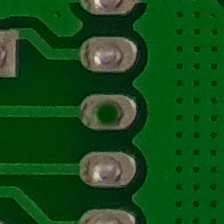
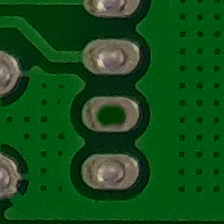
feat(vision): add high-resolution sliding window tiling scanner for full-board uploads

diff --git a/src/api/templates/demo.html b/src/api/templates/demo.html
@@ -986,14 +986,19 @@
                 }
                 const data = await res.json();
                 
-                // Lê arquivo original como Base64 para visualização dual
-                const reader = new FileReader();
-                reader.onload = function(e) {
-                    data.original_image_base64 = e.target.result;
+                // Usa imagem anotada pelo backend com retículo de defeito, ou arquivo original
+                if (!data.original_image_base64) {
+                    const reader = new FileReader();
+                    reader.onload = function(e) {
+                        data.original_image_base64 = e.target.result;
+                        renderInspectionResult(data);
+                        updateTelemetryStats();
+                    };
+                    reader.readAsDataURL(file);
+                } else {
                     renderInspectionResult(data);
                     updateTelemetryStats();
-                };
-                reader.readAsDataURL(file);
+                }
             } catch (err) {
                 alert('Erro ao processar imagem de upload.');
             } finally {
@@ -1054,8 +1059,9 @@
                 banner.classList.add('bg-rose-50', 'border', 'border-rose-300', 'border-l-4', 'border-l-rose-600');
                 title.innerText = 'REPROVADA: ' + formatClassName(data.prediction);
                 title.className = 'text-base font-extrabold text-rose-900 tracking-tight';
-                subtitle.innerText = 'Confiança de ' + (data.confidence * 100).toFixed(1) + '% no diagnóstico de não-conformidade';
-                subtitle.className = 'text-xs text-rose-700 mt-1';
+                const modeMsg = (data.engine && data.engine.includes("tiled")) ? " • Varredura por Mosaico (Tiling Scanner)" : "";
+                subtitle.innerText = "Confiança de " + (data.confidence * 100).toFixed(1) + "% no diagnóstico de não-conformidade" + modeMsg;
+                subtitle.className = "text-xs text-rose-700 mt-1";
             } else {
                 banner.classList.add('bg-emerald-50', 'border', 'border-emerald-300', 'border-l-4', 'border-l-emerald-600');
                 title.innerText = 'APROVADA: CONFORME (PASS)';

diff --git a/src/api/main.py b/src/api/main.py
@@ -21,7 +21,7 @@ import torch
 from fastapi import BackgroundTasks, FastAPI, File, HTTPException, Request, UploadFile, status
 from fastapi.responses import FileResponse, HTMLResponse, StreamingResponse
 from fastapi.staticfiles import StaticFiles
-from PIL import Image
+from PIL import Image, ImageDraw
 
 from src.api.rate_limiter import rate_limiter
 from src.api.schemas import (
@@ -196,6 +196,135 @@ async def demo_interface() -> HTMLResponse:
     return HTMLResponse(content=demo_file.read_text(encoding="utf-8"))
 
 
+def _run_sliding_window_inference(
+    pil_image: Image.Image,
+    app_state: Any,
+) -> dict[str, Any]:
+    """Executa varredura por blocos ópticos (Sliding Window / Tiling) em imagens de alta resolução."""
+    if getattr(app_state, "onnx_session", None) is None:
+        load_model_engine(app_state)
+
+    inference_id = f"inf_{uuid.uuid4().hex[:8]}"
+    ood_result = check_out_of_distribution(pil_image)
+
+    w, h = pil_image.size
+    tile_size = 224
+    # Stride adaptativo para manter acurácia e latência rápida
+    stride = 180 if max(w, h) > 2200 else (140 if max(w, h) > 1000 else 112)
+
+    x_coords = sorted(list(set(list(range(0, w - tile_size, stride)) + [max(0, w - tile_size)])))
+    y_coords = sorted(list(set(list(range(0, h - tile_size, stride)) + [max(0, h - tile_size)])))
+
+    transform = get_inference_transforms(img_size=tile_size)
+    tiles_pil = []
+    tiles_tensors = []
+    coords = []
+
+    for y in y_coords:
+        for x in x_coords:
+            crop = pil_image.crop((x, y, x + tile_size, y + tile_size))
+            tiles_pil.append(crop)
+            tiles_tensors.append(transform(crop))
+            coords.append((x, y))
+
+    batch = torch.stack(tiles_tensors).numpy().astype(np.float32)
+
+    t0 = time.perf_counter()
+    if app_state.onnx_session is not None:
+        outputs = app_state.onnx_session.run(None, {app_state.onnx_input_name: batch})
+        logits = outputs[0]
+    else:
+        with torch.no_grad():
+            logits = app_state.pytorch_model(torch.tensor(batch)).numpy()
+    latency_ms = (time.perf_counter() - t0) * 1000.0
+
+    exp_logits = np.exp(logits - np.max(logits, axis=1, keepdims=True))
+    probs = exp_logits / np.sum(exp_logits, axis=1, keepdims=True)
+
+    defect_candidates = []
+    for i in range(len(tiles_pil)):
+        p = probs[i]
+        cls_idx = int(np.argmax(p))
+        cls_name = CLASS_NAMES[cls_idx]
+        if cls_name != "NORMAL" and p[cls_idx] >= 0.40:
+            defect_candidates.append({
+                "tile_idx": i,
+                "class": cls_name,
+                "confidence": float(p[cls_idx]),
+                "probs": p,
+                "coord": coords[i],
+            })
+
+    if defect_candidates:
+        # Prioriza missing hole se detectado, ou o defeito com maior confiança geral
+        missing_holes = [c for c in defect_candidates if c["class"] == "DEFECT_MISSING_HOLE"]
+        if missing_holes:
+            best = max(missing_holes, key=lambda c: c["confidence"])
+        else:
+            best = max(defect_candidates, key=lambda c: c["confidence"])
+
+        pred_class = best["class"]
+        confidence = best["confidence"]
+        prob_dict = {CLASS_NAMES[k]: round(float(best["probs"][k]), 4) for k in range(len(CLASS_NAMES))}
+        is_defective = True
+        best_idx = best["tile_idx"]
+        winning_tile = tiles_pil[best_idx]
+        winning_coord = best["coord"]
+
+        # 1. Grad-CAM focado no bloco onde o defeito físico reside
+        winning_tensor = tiles_tensors[best_idx].unsqueeze(0)
+        pred_idx = CLASS_NAMES.index(pred_class)
+        try:
+            heatmap = app_state.gradcam.generate_heatmap(winning_tensor, class_idx=pred_idx)
+            overlay_pil = app_state.gradcam.overlay_on_image(winning_tile, heatmap, alpha=0.65, threshold=0.25)
+            gradcam_base64 = GradCAM.pil_to_base64(overlay_pil, format="JPEG")
+        except Exception as exc:
+            logger.warning("Falha ao gerar Grad-CAM no tile", error=str(exc))
+            gradcam_base64 = GradCAM.pil_to_base64(winning_tile, format="JPEG")
+
+        # 2. Imagem macro anotada com mira/retículo vermelho no local do defeito
+        macro_annotated = pil_image.copy()
+        draw = ImageDraw.Draw(macro_annotated)
+        bx, by = winning_coord
+        draw.rectangle([bx, by, bx + tile_size, by + tile_size], outline="red", width=8)
+        original_base64 = GradCAM.pil_to_base64(macro_annotated, format="JPEG")
+
+    else:
+        pred_class = "NORMAL"
+        mean_probs = np.mean(probs, axis=0)
+        confidence = float(mean_probs[0])
+        prob_dict = {CLASS_NAMES[k]: round(float(mean_probs[k]), 4) for k in range(len(CLASS_NAMES))}
+        is_defective = False
+        original_base64 = GradCAM.pil_to_base64(pil_image, format="JPEG")
+
+        center_idx = len(tiles_pil) // 2
+        center_tile = tiles_pil[center_idx]
+        center_tensor = tiles_tensors[center_idx].unsqueeze(0)
+        try:
+            heatmap = app_state.gradcam.generate_heatmap(center_tensor, class_idx=0)
+            overlay_pil = app_state.gradcam.overlay_on_image(center_tile, heatmap, alpha=0.65, threshold=0.25)
+            gradcam_base64 = GradCAM.pil_to_base64(overlay_pil, format="JPEG")
+        except Exception:
+            gradcam_base64 = GradCAM.pil_to_base64(center_tile, format="JPEG")
+
+    return {
+        "inference_id": inference_id,
+        "prediction": pred_class,
+        "confidence": round(confidence, 4),
+        "is_defective": is_defective,
+        "is_unknown_anomaly": False,
+        "anomaly_score": 0.0,
+        "probabilities": prob_dict,
+        "inference_time_ms": round(latency_ms, 2),
+        "engine": "onnxruntime-cpu (tiled)" if app_state.onnx_session else "pytorch-cpu",
+        "model_version": "v1",
+        "model_alias": settings.MODEL_ALIAS,
+        "gradcam_base64": gradcam_base64,
+        "original_image_base64": original_base64,
+        "ood_flags": ood_result,
+    }
+
+
 def _run_core_inference(
     pil_image: Image.Image,
     app_state: Any,
@@ -203,6 +332,11 @@ def _run_core_inference(
     """Executa a triagem OOD, inferência ONNX, Anomaly Head e Grad-CAM em uma imagem PIL."""
     if getattr(app_state, "onnx_session", None) is None:
         load_model_engine(app_state)
+
+    # Para placas macro de alta resolução, ativa o Tiling Scanner
+    w, h = pil_image.size
+    if w > 320 or h > 320:
+        return _run_sliding_window_inference(pil_image, app_state)
 
     inference_id = f"inf_{uuid.uuid4().hex[:8]}"
 
@@ -271,6 +405,7 @@ def _run_core_inference(
         "model_version": "v1",
         "model_alias": settings.MODEL_ALIAS,
         "gradcam_base64": gradcam_base64,
+        "original_image_base64": GradCAM.pil_to_base64(pil_image, format="JPEG"),
         "ood_flags": ood_result,
     }
 
@@ -394,9 +529,9 @@ async def predict_random_sample(
         is_ood=result["ood_flags"]["is_ood"],
     )
 
+    result["original_image_base64"] = original_base64
     return RandomSampleResponse(
         sample_name=chosen_path.name,
-        original_image_base64=original_base64,
         **result,
     )
 

diff --git a/src/api/schemas.py b/src/api/schemas.py
@@ -35,6 +35,9 @@ class PredictionResponse(BaseModel):
     model_version: str = Field(default="v1", description="Versão do modelo registrada no MLflow")
     model_alias: str = Field(default="@champion", description="Alias de governança ativo")
     gradcam_base64: str = Field(description="Mapa de calor Grad-CAM sobreposto codificado em Base64")
+    original_image_base64: str | None = Field(
+        default=None, description="Imagem da placa em Base64 (original ou anotada com retículo de defeito)"
+    )
     ood_flags: OODFlagsSchema = Field(description="Métricas de integridade de sinal da imagem")
     timestamp: str = Field(default_factory=lambda: datetime.now(UTC).isoformat())
 
@@ -43,7 +46,6 @@ class RandomSampleResponse(PredictionResponse):
     """Resposta estendida para o sorteio de amostras industriais da Live Demo."""
 
     sample_name: str = Field(description="Nome do arquivo da amostra industrial no pool")
-    original_image_base64: str = Field(description="Imagem original da placa em Base64")
 
 
 class TechnicalReportRequest(BaseModel):

diff --git a/src/models/onnx_exporter.py b/src/models/onnx_exporter.py
@@ -39,6 +39,7 @@ def export_to_onnx(
         do_constant_folding=True,
         input_names=["input"],
         output_names=["logits"],
+        dynamic_axes={"input": {0: "batch_size"}, "logits": {0: "batch_size"}},
         dynamo=False,
     )
 
